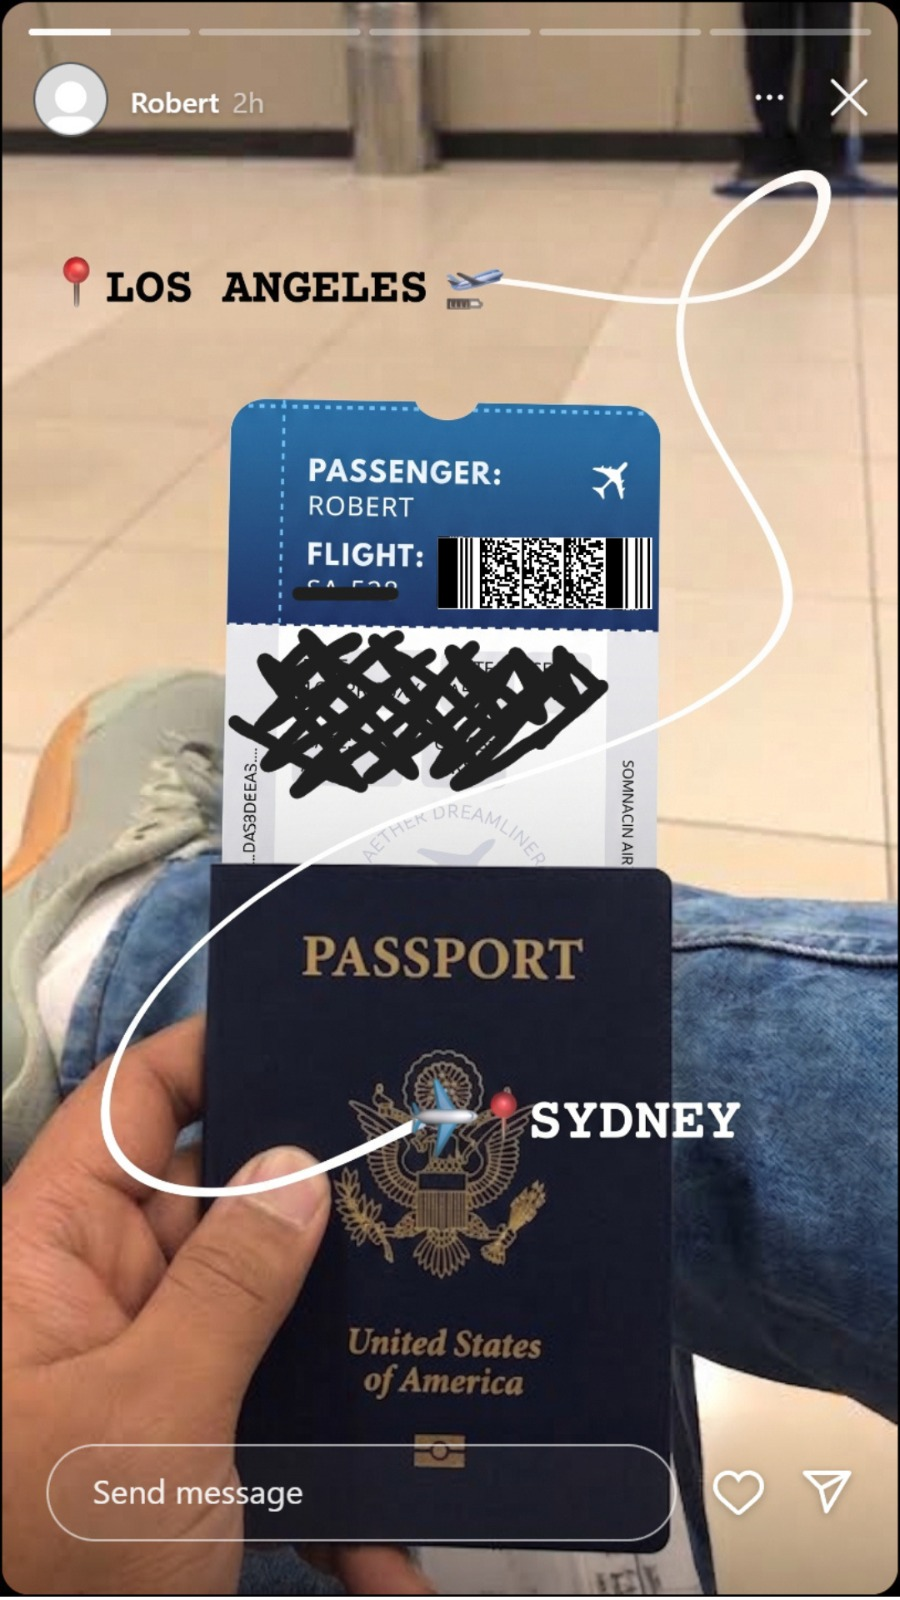
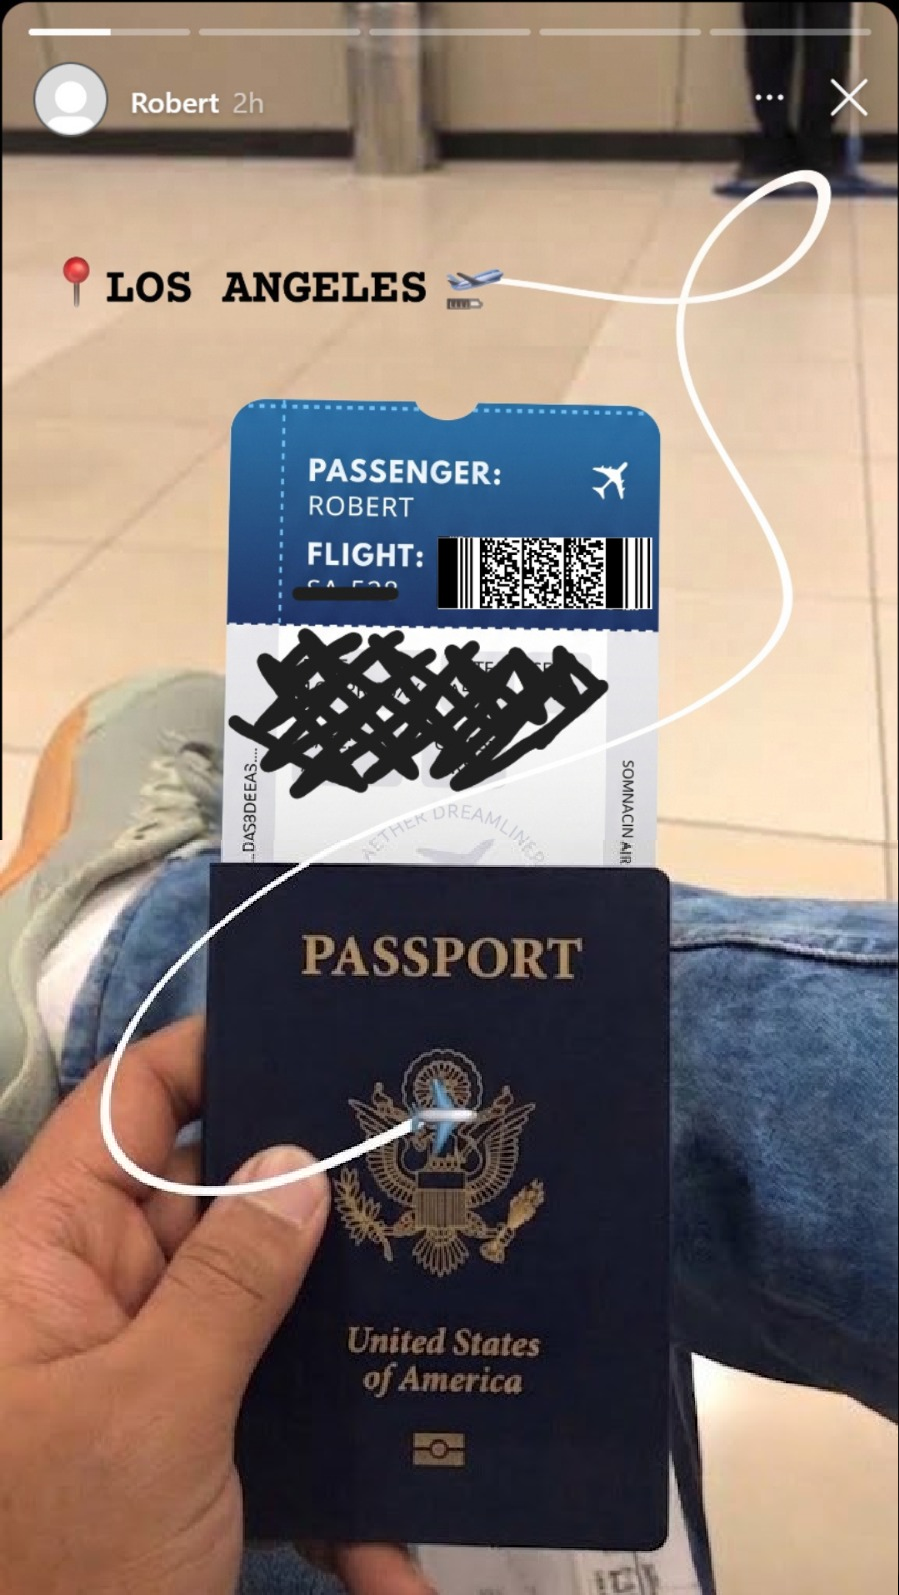
level 0 ui done

diff --git a/app/level/0/page.tsx b/app/level/0/page.tsx
@@ -7,16 +7,17 @@ import lore from "../../../.lore.json";
 
 export default function LevelZeroPage() {
   const [introFinished, setIntroFinished] = useState(false);
+  const [isLiked, setIsLiked] = useState(false);
 
   return (
     <main className="relative min-h-screen w-full overflow-hidden bg-black text-white flex">
       {/* Intro Sequence Overlay */}
-      {!introFinished && (
+      {/* {!introFinished && (
         <IntroSequence 
           asOverlay={true} 
           onComplete={() => setIntroFinished(true)} 
         />
-      )}
+      )} */}
 
       {/* Left Side: Airplane Window View & Text */}
       <div className="relative flex-1 h-screen flex flex-col justify-end p-18">
@@ -25,6 +26,7 @@ export default function LevelZeroPage() {
           src="/level_0.png"
           alt="Airplane Window View"
           fill
+          sizes="(max-width: 1024px) 100vw, 65vw"
           className="object-cover object-center opacity-90"
           priority
         />
@@ -33,7 +35,7 @@ export default function LevelZeroPage() {
         <div className="absolute inset-0 bg-gradient-to-l from-black/50 via-black/40 to-transparent"></div>
 
         {/* Story Text */}
-        <div className="relative z-10 max-w-xl">
+        <div className="relative z-10 ">
           <div className="rounded-lg bg-black/40 p-6 backdrop-blur-md border border-white/10 shadow-2xl">
             <h1 className="mb-4 text-2xl font-bold tracking-widest text-blue-200">PROLOGUE</h1>
             <p className="text-lg leading-relaxed text-gray-200">
@@ -44,16 +46,84 @@ export default function LevelZeroPage() {
       </div>
 
       {/* Right Side: Ticket Image */}
-      <div className="h-screen flex-shrink-0 p-4 pr-18 bg-black">
-        <div className="relative h-full">
+      <div className="h-screen flex-shrink-0 p-4 pr-18 bg-black flex items-center justify-center">
+        <div className="relative h-full aspect-[9/16] max-w-full overflow-hidden rounded-3xl shadow-2xl bg-black">
           <Image
             src="/ticket.png"
             alt="Flight Ticket to Sydney"
-            width={1080}
-            height={1920}
-            className="h-full w-auto object-cover shadow-2xl"
+            fill
+            sizes="(max-width: 1024px) 100vw, 56vh"
+            className="object-cover object-center select-none pointer-events-none"
             priority
           />
+
+          {/* Instagram Story Bottom Interaction Bar Overlay */}
+          <div className="absolute bottom-0 left-0 right-0 px-[4.5%] pb-[4%] pt-4 flex items-center gap-[3%] z-20">
+            {/* Pill Input Container - Almost Transparent */}
+            <div className="relative flex-1 flex items-center bg-white/[0.04] hover:bg-white/[0.08] focus-within:bg-white/[0.10] backdrop-blur-[2px] rounded-full border border-white/20 px-4 py-2.5 transition-all duration-200">
+              <input
+                type="text"
+                placeholder="Send message"
+                className="w-full bg-transparent text-[14px] sm:text-[15px] text-white placeholder-white/50 outline-none pr-6 font-normal tracking-tight"
+              />
+            </div>
+
+            {/* Like Button */}
+            <button
+              type="button"
+              onClick={() => setIsLiked(!isLiked)}
+              className="p-1.5 transition-transform active:scale-125 hover:opacity-90 focus:outline-none flex items-center justify-center cursor-pointer"
+              aria-label="Like story"
+            >
+              {isLiked ? (
+                <svg
+                  xmlns="http://www.w3.org/2000/svg"
+                  viewBox="0 0 24 24"
+                  fill="#ff3040"
+                  className="w-7 h-7 drop-shadow-[0_0_8px_rgba(255,48,64,0.6)] animate-in zoom-in-50 duration-200"
+                >
+                  <path d="m11.645 20.91-.007-.003-.022-.012a15.247 15.247 0 0 1-.383-.218 25.18 25.18 0 0 1-4.244-3.17C4.688 15.36 2.25 12.174 2.25 8.25 2.25 5.322 4.714 3 7.688 3A5.5 5.5 0 0 1 12 5.052 5.5 5.5 0 0 1 16.313 3c2.973 0 5.437 2.322 5.437 5.25 0 3.925-2.438 7.111-4.739 9.256a25.175 25.175 0 0 1-4.244 3.17 15.247 15.247 0 0 1-.383.219l-.022.012-.007.004-.003.001a.752.752 0 0 1-.704 0l-.003-.001Z" />
+                </svg>
+              ) : (
+                <svg
+                  xmlns="http://www.w3.org/2000/svg"
+                  fill="none"
+                  viewBox="0 0 24 24"
+                  strokeWidth={1.8}
+                  stroke="currentColor"
+                  className="w-7 h-7 text-white drop-shadow-md"
+                >
+                  <path
+                    strokeLinecap="round"
+                    strokeLinejoin="round"
+                    d="M21 8.25c0-2.485-2.099-4.5-4.688-4.5-1.935 0-3.597 1.126-4.312 2.733-.715-1.607-2.377-2.733-4.313-2.733C5.1 3.75 3 5.765 3 8.25c0 7.22 9 12 9 12s9-4.78 9-12Z"
+                  />
+                </svg>
+              )}
+            </button>
+
+            {/* Direct Message (Paper Airplane) Button */}
+            <button
+              type="button"
+              className="p-1.5 transition-transform active:scale-110 hover:opacity-80 focus:outline-none flex items-center justify-center cursor-pointer"
+              aria-label="Direct message"
+            >
+              <svg
+                xmlns="http://www.w3.org/2000/svg"
+                viewBox="0 0 24 24"
+                fill="none"
+                stroke="currentColor"
+                strokeWidth={1.8}
+                className="w-7 h-7 text-white -rotate-12 drop-shadow-md"
+              >
+                <path
+                  strokeLinecap="round"
+                  strokeLinejoin="round"
+                  d="M6 12 3.269 3.125A59.769 59.769 0 0 1 21.485 12 59.768 59.768 0 0 1 3.27 20.875L5.999 12Zm0 0h7.5"
+                />
+              </svg>
+            </button>
+          </div>
         </div>
       </div>
     </main>
